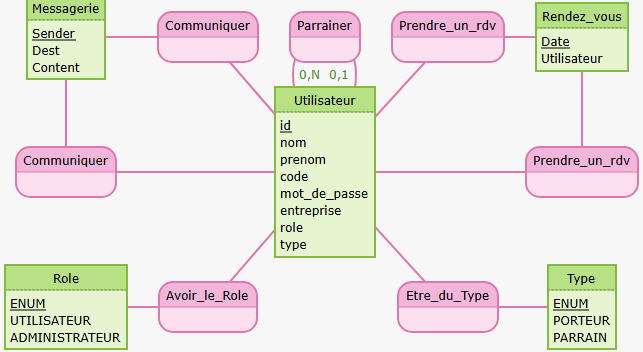
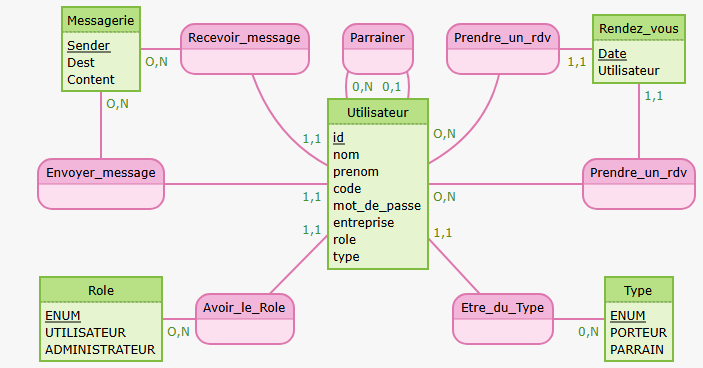
docs: correction MCD

Changed region(s): [[0.0, 0.0, 0.9953, 1.0]]

diff --git a/README.md b/README.md
@@ -114,9 +114,13 @@ Cependant, vous pouvez la créer manuellement à l’aide du shell MongoDB que v
 
 `mongosh`
 
-`use ttm`
+Puis dans le shell :
 
-`db.messages.insertOne({ message: "Bienvenue dans Trouve Ton Match !" })`
+`use ttm
+db.messages.insertOne({ message: "Bienvenue dans Trouve Ton Match !" })`
+
+#### d. Lancer MongoDB depuis un terminal :
+`mongod`
 
 #### e. Variables attendues
 
@@ -126,7 +130,7 @@ Cependant, vous pouvez la créer manuellement à l’aide du shell MongoDB que v
 | `SPRING_DATA_MONGODB_PORT`     | Port d'écoute de MongoDB          | `27017`     |
 | `SPRING_DATA_MONGODB_DATABASE` | Nom de la base de données MongoDB | `ttm`       |
 
-#### e. Exemple de fichier `.env`
+#### f. Exemple de fichier `.env`
 
 ```env
 SPRING_DATA_MONGODB_HOST=localhost
